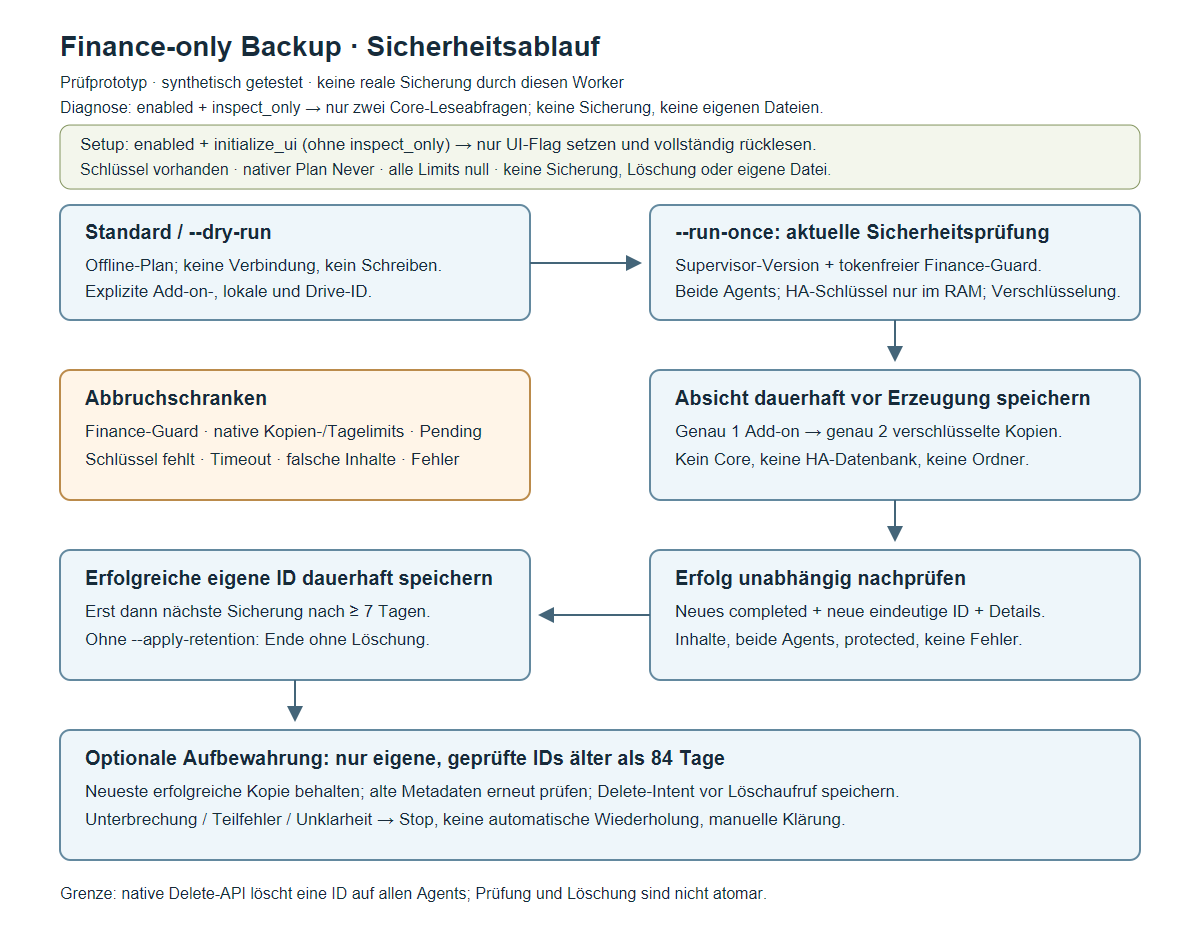
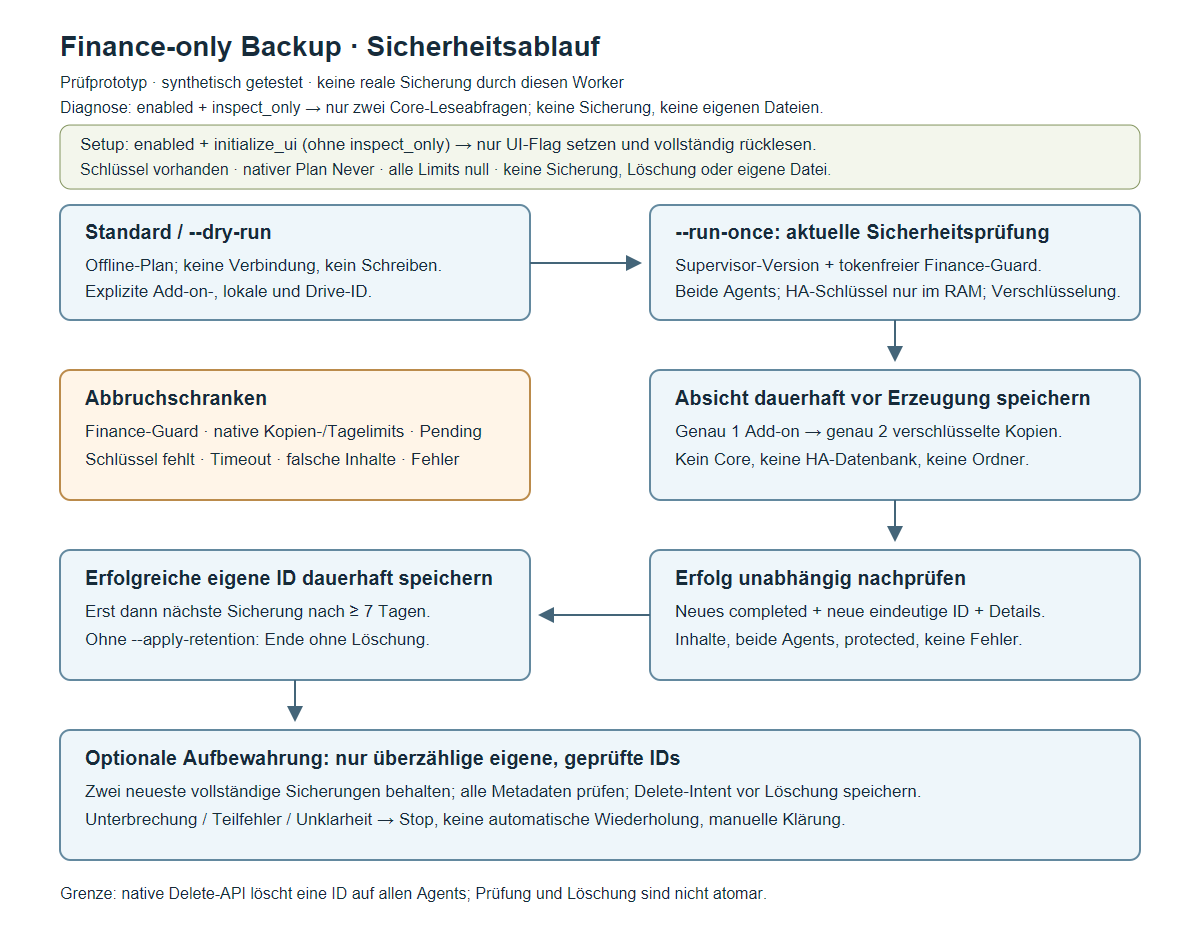
Limit owned Finance backups to two verified recovery points

Changed region(s): [[0.0617, 0.787, 0.7708, 0.8778]]

diff --git a/finance_backup_controller/test_controller.py b/finance_backup_controller/test_controller.py
@@ -174,7 +174,7 @@ class Tests(unittest.TestCase):
             self.assertFalse(self.state.data["owned"])
             self.assertFalse(self.deletes())
 
-    def test_retention_only_owned_strictly_older_84days_keeps_latest(self):
+    def test_retention_keeps_two_newest_owned_and_foreign(self):
         old = backup("old", "finance-only-old", NOW - timedelta(days=85))
         edge = backup("edge", "finance-only-edge", NOW - timedelta(days=84))
         latest = backup("latest", "finance-only-latest", NOW - timedelta(days=83))
@@ -184,30 +184,64 @@ class Tests(unittest.TestCase):
         def check_intent():
             self.assertEqual(json.loads(self.path.read_text())["delete_intent"]["backup_id"], "old")
         self.api.on_delete = check_intent
-        c.prune(self.api, self.state, NOW)
+        c.prune(self.api, self.state)
         self.assertEqual(self.deletes(), [{"type": "backup/delete", "backup_id": "old"}])
         self.assertEqual({b["backup_id"] for b in self.api.backups}, {"edge", "latest", "foreign"})
+
+    def test_retention_rotates_only_after_new_verified_backup(self):
+        old = backup("old", "finance-only-old", NOW - timedelta(days=15))
+        previous = backup("previous", "finance-only-previous", NOW - timedelta(days=8))
+        self.api.backups = [old, previous]
+        self.state.data["owned"] = [owned(old), owned(previous)]
+        self.assertEqual(c.run(self.api, self.state, NOW, True), "completed")
+        self.assertEqual({b["backup_id"] for b in self.api.backups}, {"previous", "new"})
+        self.assertEqual({b["backup_id"] for b in self.state.data["owned"]}, {"previous", "new"})
+
+    def test_retention_requires_both_recovery_points_and_valid_count(self):
+        old = backup("old", "finance-only-old", NOW - timedelta(days=15))
+        previous = backup("previous", "finance-only-previous", NOW - timedelta(days=8))
+        latest = backup("latest", "finance-only-latest", NOW)
+        self.state.data["owned"] = [owned(old), owned(previous), owned(latest)]
+        self.api.backups = [old, previous, latest]
+        for count in (False, 1, 0, 101, "2"):
+            with self.subTest(count=count), self.assertRaises(c.SafetyStop):
+                c.prune(self.api, self.state, count)
+        self.api.backups.remove(previous)
+        with self.assertRaises(c.SafetyStop):
+            c.prune(self.api, self.state)
+        self.assertFalse(self.deletes())
+
+    def test_configured_count_three_keeps_three_complete_backups(self):
+        records = [backup(str(i), "finance-only-" + str(i), NOW - timedelta(days=4-i))
+                   for i in range(4)]
+        self.api.backups = records.copy()
+        self.state.data["owned"] = [owned(b) for b in records]
+        c.prune(self.api, self.state, 3)
+        self.assertEqual({b["backup_id"] for b in self.api.backups}, {"1", "2", "3"})
+        self.assertEqual([p["backup_id"] for p in self.deletes()], ["0"])
 
     def test_stale_foreign_or_extra_agent_metadata_blocks_deletion(self):
         for field in ("name", "date", "addon", "extraagent", "missing"):
             old = backup("old", "finance-only-old", NOW - timedelta(days=90))
+            middle = backup("middle", "finance-only-middle", NOW - timedelta(days=1))
             latest = backup("latest", "finance-only-latest", NOW)
-            self.state.data["owned"] = [owned(old), owned(latest)]
+            self.state.data["owned"] = [owned(old), owned(middle), owned(latest)]
             if field == "name": old["name"] = "foreign"
             if field == "date": old["date"] = NOW.isoformat()
             if field == "addon": old["addons"] = [{"slug": "other"}]
             if field == "extraagent": old["agents"]["third"] = {"protected": True, "size": 5}
-            self.api.backups = [latest] if field == "missing" else [old, latest]
-            with self.subTest(field=field), self.assertRaises(c.SafetyStop): c.prune(self.api, self.state, NOW)
+            self.api.backups = [middle, latest] if field == "missing" else [old, middle, latest]
+            with self.subTest(field=field), self.assertRaises(c.SafetyStop): c.prune(self.api, self.state)
             self.assertFalse(self.deletes())
 
     def test_delete_interruption_journals_and_blocks_future_mutation(self):
         old = backup("old", "finance-only-old", NOW - timedelta(days=90))
+        middle = backup("middle", "finance-only-middle", NOW - timedelta(days=1))
         latest = backup("latest", "finance-only-latest", NOW)
-        self.api.backups = [old, latest]
-        self.state.data["owned"] = [owned(old), owned(latest)]
+        self.api.backups = [old, middle, latest]
+        self.state.data["owned"] = [owned(old), owned(middle), owned(latest)]
         self.api.fail_at = "backup/delete"
-        with self.assertRaises(ConnectionError): c.prune(self.api, self.state, NOW)
+        with self.assertRaises(ConnectionError): c.prune(self.api, self.state)
         reloaded = c.State(self.path, CFG)
         self.assertEqual(reloaded.data["delete_intent"], owned(old))
         with self.assertRaises(c.SafetyStop): reloaded.require_clear()
@@ -250,7 +284,7 @@ class Tests(unittest.TestCase):
         self.assertEqual(c.run(self.api, self.state, NOW, True), "not_due")
         self.assertFalse(any(p["type"] == "backup/generate" for p in self.api.calls))
         self.api.backups = [b]
-        c.prune(self.api, self.state, NOW + timedelta(days=300))
+        c.prune(self.api, self.state)
         self.assertFalse(self.deletes())
 
     def test_explicit_run_now_bypasses_only_interval_and_keeps_prior_ownership(self):
@@ -269,8 +303,8 @@ class Tests(unittest.TestCase):
     def test_approved_versions_require_exact_supervisor_and_guard_agreement(self):
         class Response(io.BytesIO):
             def getcode(self): return 200
-        for installed in ("0.2.69", "0.2.70"):
-            for reported in ("0.2.69", "0.2.70", "0.2.71"):
+        for installed in ("0.2.69", "0.2.70", "0.2.71", "0.2.72", "0.2.73"):
+            for reported in ("0.2.69", "0.2.70", "0.2.71", "0.2.72", "0.2.73"):
                 self.api.finance_info["data"]["version"] = installed
                 self.api.backup_guard["addon_version"] = reported
                 count = []
@@ -279,10 +313,11 @@ class Tests(unittest.TestCase):
                     payload = self.api.finance_info if len(count) == 1 else self.api.backup_guard
                     return Response(json.dumps(payload).encode())
                 with self.subTest(installed=installed, reported=reported):
-                    if installed == reported: c.supervisor_guard(CFG, "SYNTHETIC_TOKEN", opener)
+                    if installed == reported and installed != "0.2.73":
+                        c.supervisor_guard(CFG, "SYNTHETIC_TOKEN", opener)
                     else:
                         with self.assertRaises(c.SafetyStop): c.supervisor_guard(CFG, "SYNTHETIC_TOKEN", opener)
-                self.assertEqual(len(count), 2)
+                self.assertEqual(len(count), 1 if installed == "0.2.73" else 2)
 
     def test_lock_and_invalid_config_fail_closed(self):
         with c.lock(self.path):
@@ -297,19 +332,21 @@ class Tests(unittest.TestCase):
         self.assertFalse(any(p["type"] == "backup/generate" for p in self.api.calls))
         self.state.data["pending"] = None
         old = backup("old", "finance-only-old", NOW - timedelta(days=90))
+        middle = backup("middle", "finance-only-middle", NOW - timedelta(days=1))
         latest = backup("latest", "finance-only-latest", NOW)
-        self.api.backups = [old, latest]
-        self.state.data["owned"] = [owned(old), owned(latest)]
+        self.api.backups = [old, middle, latest]
+        self.state.data["owned"] = [owned(old), owned(middle), owned(latest)]
         with patch.object(self.state, "save", side_effect=OSError("synthetic disk full")):
-            with self.assertRaises(OSError): c.prune(self.api, self.state, NOW)
+            with self.assertRaises(OSError): c.prune(self.api, self.state)
         self.assertFalse(self.deletes())
 
     def test_latest_backup_missing_blocks_all_deletion(self):
         old = backup("old", "finance-only-old", NOW - timedelta(days=90))
+        middle = backup("middle", "finance-only-middle", NOW - timedelta(days=1))
         latest = backup("latest", "finance-only-latest", NOW)
-        self.api.backups = [old]
-        self.state.data["owned"] = [owned(old), owned(latest)]
-        with self.assertRaises(c.SafetyStop): c.prune(self.api, self.state, NOW)
+        self.api.backups = [old, middle]
+        self.state.data["owned"] = [owned(old), owned(middle), owned(latest)]
+        with self.assertRaises(c.SafetyStop): c.prune(self.api, self.state)
         self.assertFalse(self.deletes())
 
     def test_unavailable_agent_and_inventory_error_block_generation(self):
@@ -415,7 +452,7 @@ class Tests(unittest.TestCase):
                 loaded = c.State(self.path, CFG)
                 with self.subTest(field=field, value=value):
                     with self.assertRaises(c.SafetyStop): c.run(self.api, loaded, NOW, True)
-                    with self.assertRaises(c.SafetyStop): c.prune(self.api, loaded, NOW)
+                    with self.assertRaises(c.SafetyStop): c.prune(self.api, loaded)
                 self.assertFalse(self.api.calls)
 
     def test_temp_created_exclusive_private_and_failed_write_preserves_old_state(self):

diff --git a/finance_backup_controller/controller.py b/finance_backup_controller/controller.py
@@ -23,7 +23,7 @@ class SafetyStop(Exception):
     """Safe, fixed diagnostic text only."""
 
 
-APPROVED_FINANCE_VERSIONS = frozenset({"0.2.69", "0.2.70"})
+APPROVED_FINANCE_VERSIONS = frozenset({"0.2.69", "0.2.70", "0.2.71", "0.2.72"})
 
 
 def utc(value):
@@ -430,8 +430,10 @@ def inventory(api):
     return result["backups"]
 
 
-def run(api, state, now, apply_retention=False, *, run_now=False):
+def run(api, state, now, apply_retention=False, *, run_now=False, retained_backups=2):
     state.require_clear()
+    if type(retained_backups) is not int or not 2 <= retained_backups <= 100:
+        raise SafetyStop("Retained backup count must be an integer from 2 to 100")
     config = state.config
     # Fresh installed version + actual runtime options, not a one-time approval.
     # Must precede pending state and every generate/delete operation in this run.
@@ -480,26 +482,25 @@ def run(api, state, now, apply_retention=False, *, run_now=False):
     state.data["pending"] = None
     state.save()
     if apply_retention:
-        prune(api, state, now)
+        prune(api, state, retained_backups)
     return "completed"
 
 
-def prune(api, state, now):
+def prune(api, state, retained_backups=2):
     state.require_clear()
+    if type(retained_backups) is not int or not 2 <= retained_backups <= 100:
+        raise SafetyStop("Retained backup count must be an integer from 2 to 100")
     owned = state.data["owned"]
-    if not owned:
+    if len(owned) <= retained_backups:
         return
-    latest = max(owned, key=lambda o: utc(o["created_utc"]))
-    # Verify retained recovery point before deleting any older owned backup.
-    latest_details = api.command({"type": "backup/details", "backup_id": latest["backup_id"]})
-    if latest_details["agent_errors"] or not matches(latest_details["backup"], latest, state.config):
-        raise SafetyStop("Latest successful backup is not currently verified")
-    for old in list(owned):
-        if old == latest or now - utc(old["created_utc"]) <= timedelta(days=84):
-            continue
-        details = api.command({"type": "backup/details", "backup_id": old["backup_id"]})
-        if details["agent_errors"] or not matches(details["backup"], old, state.config):
-            raise SafetyStop("Old backup changed or unavailable; no deletion")
+    ordered = sorted(owned, key=lambda o: (utc(o["created_utc"]), o["backup_id"]), reverse=True)
+    # Verify all retained recovery points and deletion candidates before the
+    # first mutation. Each point must still have both encrypted physical copies.
+    for record in ordered:
+        details = api.command({"type": "backup/details", "backup_id": record["backup_id"]})
+        if details["agent_errors"] or not matches(details["backup"], record, state.config):
+            raise SafetyStop("Owned backup changed or unavailable; no deletion")
+    for old in ordered[retained_backups:]:
         api.verify_addon(state.config)
         state.data["delete_intent"] = dict(old)
         state.save()  # Keep on interrupted/partial deletion: no automatic retry.
@@ -521,14 +522,17 @@ def main(argv=None):
     parser.add_argument("--run-once", action="store_true")
     parser.add_argument("--dry-run", action="store_true")
     parser.add_argument("--apply-retention", action="store_true")
+    parser.add_argument("--retained-backups", type=int, default=2)
     parser.add_argument("--run-now", action="store_true")
     args = parser.parse_args(argv)
     try:
         config = json.loads(args.config.read_text(encoding="utf-8"))
         config_validate(config)
+        if not 2 <= args.retained_backups <= 100:
+            raise SafetyStop("Retained backup count must be from 2 to 100")
         if not args.run_once or args.dry_run:
             print(json.dumps({"mode": "offline-plan", "generate": generation(config, "finance-only-<random>"),
-                              "retention_days": 84, "retention_enabled": False}))
+                              "retained_backups": args.retained_backups, "retention_enabled": False}))
             return 0
         token = os.environ.get("SUPERVISOR_TOKEN")
         if not token:
@@ -544,7 +548,8 @@ def main(argv=None):
                 api = HA(socket)
                 api.authenticate(token)
                 token = None
-                print(run(api, state, datetime.now(timezone.utc), args.apply_retention, run_now=args.run_now))
+                print(run(api, state, datetime.now(timezone.utc), args.apply_retention,
+                          run_now=args.run_now, retained_backups=args.retained_backups))
             finally:
                 socket.close()
         return 0

diff --git a/finance_backup_controller/test_scheduler.py b/finance_backup_controller/test_scheduler.py
@@ -252,6 +252,7 @@ class Tests(unittest.TestCase):
         self.assertIs(OPTIONS["enabled"], False)
         self.assertIs(OPTIONS["inspect_only"], False)
         self.assertIs(OPTIONS["apply_retention"], False)
+        self.assertEqual(OPTIONS["retained_backups"], 2)
         for forbidden in ("ports", "map", "host_network", "docker_api", "privileged", "devices"):
             self.assertNotIn(forbidden, MANIFEST)
         dockerfile = (HERE / "Dockerfile").read_text()
@@ -259,6 +260,27 @@ class Tests(unittest.TestCase):
         self.assertNotIn("pip", dockerfile)
         for image in json.loads((HERE / "build.json").read_text())["build_from"].values():
             self.assertTrue(image.startswith("ghcr.io/home-assistant/"))
+
+    def test_retention_option_is_bounded_and_passed_only_when_enabled(self):
+        legacy = {key: value for key, value in OPTIONS.items() if key != "retained_backups"}
+        self.assertEqual(scheduler.options_validate(legacy), CONFIG)
+        for value in (False, 1, 0, 101, "2"):
+            with self.subTest(value=value), self.assertRaises(controller.SafetyStop):
+                scheduler.options_validate(OPTIONS | {"retained_backups": value})
+        self.enable(retention=True)
+        calls = []
+        def invoke(args):
+            calls.append(args)
+            state = controller.State(self.state_path, CONFIG)
+            state.data["owned"].append({"backup_id": "new", "name": "finance-only-new",
+                                        "created_utc": NOW.isoformat()})
+            state.save()
+            return 0
+        self.options_path.write_text(json.dumps(OPTIONS | {"enabled": True, "apply_retention": True,
+                                                    "retained_backups": 3, "run_once_now": True}))
+        with redirect_stdout(io.StringIO()):
+            self.assertEqual(scheduler.serve(self.data, clock=lambda: NOW, invoke=invoke), 0)
+        self.assertEqual(calls[0][-3:-1], ["--retained-backups", "3"])
 
     def test_falsy_non_null_intents_block_scheduler_without_execution(self):
         self.enable()

diff --git a/finance_backup_controller/scheduler.py b/finance_backup_controller/scheduler.py
@@ -21,11 +21,14 @@ class StopRequested(BaseException):
 
 
 def options_validate(options):
-    keys = {"enabled", "inspect_only", "initialize_ui", "reconcile_pending", "run_once_now", "apply_retention", "addon_slug", "local_agent_id", "drive_agent_id"}
-    if not isinstance(options, dict) or set(options) != keys:
+    keys = {"enabled", "inspect_only", "initialize_ui", "reconcile_pending", "run_once_now", "apply_retention", "retained_backups", "addon_slug", "local_agent_id", "drive_agent_id"}
+    if not isinstance(options, dict) or set(options) not in (keys, keys - {"retained_backups"}):
         raise controller.SafetyStop("Invalid app option keys")
     if any(type(options[flag]) is not bool for flag in ("enabled", "inspect_only", "initialize_ui", "reconcile_pending", "run_once_now", "apply_retention")):
         raise controller.SafetyStop("App flags must be boolean")
+    retained_backups = options.get("retained_backups", 2)
+    if type(retained_backups) is not int or not 2 <= retained_backups <= 100:
+        raise controller.SafetyStop("Retained backup count must be from 2 to 100")
     if sum(options[flag] for flag in ("inspect_only", "initialize_ui", "reconcile_pending", "run_once_now")) > 1:
         raise controller.SafetyStop("Setup modes must not be combined")
     if options["inspect_only"] or options["initialize_ui"]:
@@ -119,7 +122,8 @@ def serve(data_dir=Path("/data"), *, clock=None, sleep=None, invoke=None, inspec
         config_path.write_text(json.dumps(config, sort_keys=True), encoding="utf-8")
         args = ["--config", str(config_path), "--state", str(state_path), "--run-once"]
         if options["apply_retention"]:
-            args.append("--apply-retention")
+            args.extend(["--apply-retention", "--retained-backups",
+                         str(options.get("retained_backups", 2))])
         if options["run_once_now"]:
             args.append("--run-now")
         if invoke(args) != 0:

diff --git a/finance_backup_controller/README.md b/finance_backup_controller/README.md
@@ -1,8 +1,14 @@
 # Finance Backup Controller — kanonisches Prüf- und Veröffentlichungspaket
 
-Dieses eigenständige HA-App-Paket enthält genau **eine** `controller.py`. Die synthetischen Tests prüfen diese Fassung und das explizite Recovery-Modul direkt. Die älteren Root-/`addon/`-Fassungen außerhalb dieses Ordners gehören nicht zu diesem Veröffentlichungspaket. Version 0.1.1 korrigiert die Wartebehandlung und ergänzt einen ausdrücklich ausgelösten Abgleich bereits gestarteter Sicherungen. Eine synthetische Prüfung ersetzt keine praktische Transfer- oder Wiederherstellungsabnahme.
+Dieses eigenständige HA-App-Paket enthält genau **eine** `controller.py`. Die synthetischen Tests prüfen diese Fassung und das explizite Recovery-Modul direkt. Die älteren Root-/`addon/`-Fassungen außerhalb dieses Ordners gehören nicht zu diesem Veröffentlichungspaket. Version 0.1.2 ergänzt die Aufbewahrung von mindestens zwei eigenen vollständigen Sicherungen und die Freigabe für Finance 0.2.71 und 0.2.72. Eine synthetische Prüfung ersetzt keine praktische Transfer- oder Wiederherstellungsabnahme.
 
 Der prüfbare Ablauf ist in [flow.svg](flow.svg) und [flow.png](flow.png) dargestellt.
+
+## Version 0.1.2: Zwei vollständige eigene Sicherungen
+
+`retained_backups` ist standardmäßig `2` und lässt ganze Zahlen von 2 bis 100 zu. Eine vorhandene Optionsdatei der Version 0.1.1 ohne dieses Feld verwendet ebenfalls den Wert 2. Der Controller rotiert nur nach einer neuen, vollständig geprüften und dauerhaft gespeicherten Finance-Sicherung und nur mit `apply_retention: true`. Er prüft vor der ersten Löschung alle eigenen Sicherungen erneut auf ID, Namen, Zeit, Finance-Inhalt und zwei vorhandene, verschlüsselte physische Kopien. Die jüngsten `retained_backups` bleiben erhalten; ältere eigene IDs werden einzeln mit dauerhaftem Lösch-Intent entfernt. Fremde Sicherungen werden nicht gelöscht. Fehlende oder veränderte Metadaten stoppen vor der ersten Löschung; ein unklarer Löschaufruf blockiert jeden Folgelauf bis zur manuellen Klärung.
+
+Finance 0.2.71 ist anhand des öffentlichen Release-Quellstands freigegeben: `config.yaml` meldet 0.2.71 und die vorgesehenen `backup_exclude`-Muster, `backup_guard.py` bindet den tokenfreien Guard an 0.2.71, und die Git-Blob-Hashes beider Dateien stimmen mit dem `build-manifest.json` überein. Die frische Supervisor-Version und die Guard-Antwort müssen weiterhin exakt übereinstimmen. Die tatsächliche installierte Image-Version, Archivinhalt und Wiederherstellbarkeit bleiben vor einem produktiven Lauf gesondert zu prüfen. Finance 0.2.72 ist im separat geprüften Finance-Quellstand freigegeben: Gegenüber 0.2.71 ändern sich im nativen `config.yaml` nur die Version und in `backup_guard.py` nur die freigegebene Versionskonstante; `run.sh`, `bootstrap.py` und `vault_selftest.py` sind unverändert. Die nativen Backup-Payload- und Guard-Tests sind grün. 0.2.73 bleibt gesperrt.
 
 ## Version 0.1.1: Warten und kontrollierter Abgleich
 
@@ -14,11 +20,11 @@ Er verlangt einen vorhandenen streng gültigen Pending-Eintrag mit zufälligem e
 
 Nur nach erfolgreichem Abschluss einschließlich Verbindungsabbau erscheint `Pending backup reconciled; no backup created or deleted`. Ein Dateisystemfehler nach dem atomaren Austausch kann bereits einen neuen lokalen Stand hinterlassen; dann nicht automatisch zurückschreiben oder wiederholen, sondern prüfen. Anschließend den Recovery-Schalter wieder auf `false` setzen. Ein separat gestarteter Normalmodus berücksichtigt die übernommene Sicherung für die unveränderte Sieben-Tage-Frist.
 
-Der neue Schalter ist standardmäßig `false`; Rechte, Quell- und Zielvorgaben sowie der 84-Tage-Plan bleiben unverändert.
+Der neue Schalter ist standardmäßig `false`; Rechte, Quell- und Zielvorgaben bleiben unverändert.
 
 `run_once_now: true` ist eine weitere ausdrücklich gewählte einmalige Betreiberhandlung, etwa für die Prüfung eines geänderten Sicherungsumfangs. Sie umgeht ausschließlich die Sieben-Tage-Wartefrist und erzeugt genau eine vollständig geprüfte neue Sicherung; vorhandene Eigentumsnachweise bleiben erhalten. Unklare Vorgänge, Locks, Bank-/Schlüsselausschlüsse, Verschlüsselungs- und Inhaltsprüfungen werden nicht umgangen. Der Modus kann nicht mit Diagnose, UI-Initialisierung oder Recovery kombiniert werden. Er beendet sich anschließend und aktiviert keinen Wochenplan. Vor dem getrennten Start des normalen Wochenbetriebs den Schalter wieder auf `false` setzen. CLI-Entsprechung: `--run-once --run-now`; ohne `--run-once` bleibt die CLI offline.
 
-Freigegeben sind ausschließlich Finance 0.2.69 und 0.2.70. Die vom geheimnisfreien Guard gemeldete Version muss exakt mit der frischen Supervisor-Angabe übereinstimmen. 0.2.70 lässt zusätzlich bereits erzeugte lokale Sicherungsarchive und Datenbankkopien aus künftigen äußeren Sicherungen heraus; diese Dateien werden nicht gelöscht.
+Freigegeben sind ausschließlich Finance 0.2.69, 0.2.70, 0.2.71 und 0.2.72. Die vom geheimnisfreien Guard gemeldete Version muss exakt mit der frischen Supervisor-Angabe übereinstimmen. 0.2.70 lässt zusätzlich bereits erzeugte lokale Sicherungsarchive und Datenbankkopien aus künftigen äußeren Sicherungen heraus; diese Dateien werden nicht gelöscht.
 
 ## Rechte und Vorgaben
 
@@ -30,7 +36,7 @@ Offizielle Basisbilder: `ghcr.io/home-assistant/{arch}-base:3.24-2026.08.0` für
 
 ## Sicherheitsprüfung und Inhalt
 
-Vor jeder Sicherung wird über die feste interne GET-Route `http://supervisor/addons/{addon_slug}/info` ausschließlich eine der freigegebenen Versionen **0.2.69 oder 0.2.70** und der exakt erwartete Hostname (`addon_slug.replace('_', '-')`) geprüft. Anschließend folgt ein **tokenfreier** GET an genau diesen belegten Hostnamen auf Port 8785, Route `/health/backup-guard`. Nur die exakte Struktur `{"schema_version":1,"backup_safe":true,"addon_version":"0.2.69"}` ist zulässig; bei installiertem 0.2.70 muss die Antwort stattdessen exakt `addon_version: "0.2.70"` melden. Die Supervisor-Bearer-Anmeldung wird niemals an Finance weitergegeben. Finance liest dafür die tatsächliche Optionsdatei bei jeder Anfrage neu und bestätigt nur ein ausdrücklich vorhandenes leeres `access_token`; fehlende, abweichende oder unlesbare Werte ergeben lediglich einen negativen Status ohne Details. Die Version stammt aus dem im Finance-Bild eingebundenen Buildmanifest. Die Freigabe ist an die separat geprüften Release-Inhalte gebunden; andere Versionsnummern bleiben gesperrt.
+Vor jeder Sicherung wird über die feste interne GET-Route `http://supervisor/addons/{addon_slug}/info` ausschließlich eine der freigegebenen Versionen **0.2.69, 0.2.70, 0.2.71 oder 0.2.72** und der exakt erwartete Hostname (`addon_slug.replace('_', '-')`) geprüft. Anschließend folgt ein **tokenfreier** GET an genau diesen belegten Hostnamen auf Port 8785, Route `/health/backup-guard`. Nur die exakte Struktur mit `schema_version: 1`, `backup_safe: true` und `addon_version` gleich der frischen Supervisor-Version (0.2.69, 0.2.70, 0.2.71 oder 0.2.72) ist zulässig. Die Supervisor-Bearer-Anmeldung wird niemals an Finance weitergegeben. Finance liest dafür die tatsächliche Optionsdatei bei jeder Anfrage neu und bestätigt nur ein ausdrücklich vorhandenes leeres `access_token`; fehlende, abweichende oder unlesbare Werte ergeben lediglich einen negativen Status ohne Details. Die Version stammt aus dem im Finance-Bild eingebundenen Buildmanifest. Die Freigabe ist an die separat geprüften Release-Inhalte gebunden; andere Versionsnummern bleiben gesperrt.
 
 Ein anderer oder unvollständiger Stand stoppt vor Backup-Mutationen. Der Slug besteht aus einem streng geprüften Pfadsegment; keine Redirects oder Umgebungs-Proxys. Antwortgröße je Abfrage höchstens 256 KiB, Socketwartezeit höchstens 20 Sekunden. Optionen, Token und rohe Fehlertexte werden niemals ausgegeben. Die Vorprüfung wird vor jedem eigenen Löschaufruf erneut durchgeführt. Das vom Info-Endpunkt nicht gelieferte `backup_exclude` wird nicht angenommen, sondern muss für die separat freigegebene Finance-Version belegt sein.
 
@@ -40,15 +46,15 @@ Die Core-WebSocket-Version muss `2026.9.4` oder `2026.10.2` sein. Die Quelle der
 
 Ein vollständig beobachtetes Abschlussereignis genügt noch nicht: Der Controller verlangt eine neue eindeutige Backup-ID zum zufälligen eigenen Namen sowie passende Detailmetadaten, beide verschlüsselte Kopien und leere Fehlerlisten. Die native Erzeugung liefert zunächst eine Job-ID, keine Backup-ID. Eine Unterbrechung hinterlässt einen blockierenden Zustand; keine automatische Wiederholung oder Verbindungserneuerung. WebSocket-Verbindungs-/Lesefrist höchstens 30 Sekunden, Gesamtfrist 30 Minuten.
 
-## Sieben Tage und 84 Tage
+## Sieben Tage und zwei Sicherungen
 
 Die Root-CLI `controller.py` enthält keinen Zeitgeber. Der App-Prozess `scheduler.py` startet bei `enabled: true` einen fälligen Einmallauf und plant anschließend sieben Tage nach der letzten dauerhaft gespeicherten erfolgreichen Sicherung in UTC. Er schläft höchstens eine Stunde je Phase und liest Optionen/Zustand danach erneut. Ein Neustart erzeugt keine Nachholserie. Mit `enabled: false` beendet sich die App ohne Verbindung und ohne eigene Schreibzugriffe.
 
 Der gesonderte Diagnosemodus `enabled: true` plus `inspect_only: true` authentisiert genau einmal an Core und liest ausschließlich `backup/agents/info` sowie `backup/config/info`, danach beendet er sich. Die Ausgabe enthält nur `agent_ids`, `ha_version`, `key_configured`, `native_pruning_configured` und die booleschen oder unbekannten `agent_protected`-Flags. Keine Namen, E-Mails, Schlüssel oder rohen Konfigurationen. Er verwendet weder die synthetischen Quell-/Ziel-IDs noch Zustandsdateien und schreibt keine Controller-Konfiguration. Mit `enabled: false` bleibt auch dieser Modus vollständig offline. Er darf zur Ermittlung der echten IDs dienen, die später ausschließlich über die Servermaske gesetzt werden. Ein positiver Diagnosebericht ersetzt keinen der zusätzlichen Guards des normalen Sicherungslaufs.
 
-Die **84 Tage gelten ausschließlich für den eigenen Controller-Plan**: Nur mit `apply_retention: true` werden nach einer neuen vollständig geprüften Sicherung eigene IDs älter als 84 Tage berücksichtigt. Die neueste erfolgreiche Sicherung bleibt erhalten. Es gibt keinen nativen 84-Tage-Timer.
+Die **Anzahl gilt ausschließlich für den eigenen Controller-Plan**: Nur mit `apply_retention: true` werden nach einer neuen vollständig geprüften Sicherung überzählige eigene IDs berücksichtigt. Mindestens zwei neueste vollständige Sicherungen bleiben erhalten.
 
-Alle nativen globalen und agentbezogenen `copies`- und `days`-Limits müssen `null` sein, einschließlich fremder Agents. Jeder andere Wert stoppt den Controller. Native Kopienlimits können bei Erzeugung fremde Sicherungen entfernen; HA besitzt zusätzlich einen unabhängigen Tagestimer, der auch ohne aktiven nativen Sicherungsplan fremde automatische Sicherungen löschen kann. Der Controller ändert diese Einstellungen nicht selbst. Native Limits auszuschalten bedeutet nicht unbegrenzte Controller-Aufbewahrung: Die eigene 84-Tage-Prüfung bleibt davon getrennt.
+Alle nativen globalen und agentbezogenen `copies`- und `days`-Limits müssen `null` sein, einschließlich fremder Agents. Jeder andere Wert stoppt den Controller. Native Kopienlimits können bei Erzeugung fremde Sicherungen entfernen; HA besitzt zusätzlich einen unabhängigen Tagestimer, der auch ohne aktiven nativen Sicherungsplan fremde automatische Sicherungen löschen kann. Der Controller ändert diese Einstellungen nicht selbst. Native Limits auszuschalten bedeutet nicht unbegrenzte Controller-Aufbewahrung: Die eigene Anzahlprüfung bleibt davon getrennt.
 
 Die Zustandsdatei speichert ausschließlich Konfiguration, eigene erfolgreiche IDs, Namen, Datum und offene Erzeugungs-/Löschabsichten. Nur `null` bedeutet freie Intentfelder; auch `{}`, `0`, `false` und `""` blockieren. Eine zufällige Tempdatei wird exklusiv und bereits bei Erstellung mit Modus `0600` geöffnet; Flush, `fsync` und atomarer Austausch schützen die Zustandsübergänge. Unter Linux wird zusätzlich das Verzeichnis synchronisiert. Vorhandene Tempdateien/Symlinks werden nicht wiederverwendet. Die konkrete Löschabsicht wird vor jedem Löschaufruf dauerhaft geschrieben; Teilfehler bleiben zur manuellen Prüfung erhalten. Lock-/State-Dateien dürfen bei Unsicherheit nicht einfach gelöscht oder durch einen leeren Bestand ersetzt werden.
 
@@ -69,7 +75,7 @@ python -m unittest -v
 python controller.py --config config.example.json --state synthetic-state.json --dry-run
 ```
 
-Der erste Befehl führt alle **77 synthetischen Tests** gegen die eine kanonische Controllerfassung und die expliziten Betriebsmodi aus. Für den Test der tatsächlichen Timeoutklasse muss zusätzlich die verwendete websocket-client-Abhängigkeit installiert sein; andernfalls meldet dieser einzelne Test einen Skip. Keine Verbindung, keine echten Credentials, kein Containerbuild. Der zweite zeigt ausschließlich den Offline-Plan und erzeugt keine Zustandsdatei. Die Beispielkonfiguration enthält synthetische IDs. Ein realer CLI-Lauf benötigt zusätzlich `--run-once`; Löschungen außerdem `--apply-retention`. Diese Schalter erst nach gesonderter Betriebsfreigabe verwenden.
+Der erste Befehl führt alle synthetischen Tests gegen die eine kanonische Controllerfassung und die expliziten Betriebsmodi aus. Für den Test der tatsächlichen Timeoutklasse muss zusätzlich die verwendete websocket-client-Abhängigkeit installiert sein; andernfalls meldet dieser einzelne Test einen Skip. Keine Verbindung, keine echten Credentials, kein Containerbuild. Der zweite zeigt ausschließlich den Offline-Plan und erzeugt keine Zustandsdatei. Die Beispielkonfiguration enthält synthetische IDs. Ein realer CLI-Lauf benötigt zusätzlich `--run-once`; Löschungen außerdem `--apply-retention`. Diese Schalter erst nach gesonderter Betriebsfreigabe verwenden.
 
 ## Grenzen und Review-Differenz
 
@@ -77,6 +83,6 @@ Die Tests bestätigen den lokalen Ablauf, nicht reale Core-/Supervisor-Authentis
 
 Die HA-Lösch-API löscht eine ID auf allen Agents. Deshalb müssen die aktuellen Metadaten exakt die beiden erwarteten Kopien, eigene ID, Name, Zeit und Inhalte bestätigen. Prüfung und Löschung bilden keinen atomaren API-Aufruf; parallele externe Änderungen bleiben eine Grenze. Die zusammengeführte HA-Metadatenantwort ist außerdem keine kryptografische Inhaltsprüfung jeder Kopie. Ein Fehler beendet den App-Prozess; externe automatische Neustarts dürfen diese Abbruchschranke nicht umgehen.
 
-Gegenüber dem zuletzt abgeschlossenen Claude-Review kamen der native `days`-Guard, die kanonische Paketstruktur und der zweistufige aktuelle Finance-Prüfvertrag hinzu: Default-Supervisorinfo bestätigt Version/Hostname; Finance bestätigt geheimnisfrei tatsächliche Optionssicherheit. Der Bytevergleichstest entfällt hier, weil es im Paket keine zweite Controllerquelle gibt; beide Testsuites importieren unmittelbar dieselbe Datei. Manifestrechte, sieben Tage und 84 Tage bleiben erhalten. Dieser Nachtrag benötigt vor Veröffentlichung erneut Review.
+Gegenüber dem zuletzt abgeschlossenen Claude-Review kamen der native `days`-Guard, die kanonische Paketstruktur und der zweistufige aktuelle Finance-Prüfvertrag hinzu: Default-Supervisorinfo bestätigt Version/Hostname; Finance bestätigt geheimnisfrei tatsächliche Optionssicherheit. Der Bytevergleichstest entfällt hier, weil es im Paket keine zweite Controllerquelle gibt; beide Testsuites importieren unmittelbar dieselbe Datei. Manifestrechte, sieben Tage und die Aufbewahrungszahl bleiben erhalten. Dieser Nachtrag benötigt vor Veröffentlichung erneut Review.
 
 Öffentliche Primärquellen: HA-Core [WebSocket 2026.9.4](https://github.com/home-assistant/core/blob/2026.9.4/homeassistant/components/backup/websocket.py), [Manager](https://github.com/home-assistant/core/blob/2026.9.4/homeassistant/components/backup/manager.py), [Config einschließlich Tagestimer](https://github.com/home-assistant/core/blob/2026.9.4/homeassistant/components/backup/config.py), [Models](https://github.com/home-assistant/core/blob/2026.9.4/homeassistant/components/backup/models.py), [Supervisor-Anbindung](https://github.com/home-assistant/core/blob/2026.9.4/homeassistant/components/hassio/backup.py); zusätzlich geprüft gegen [2026.10.2](https://github.com/home-assistant/core/tree/2026.10.2/homeassistant/components/backup). Container/Manifest: [offizielles SSH-Buildmanifest](https://github.com/home-assistant/addons/blob/master/ssh/build.yaml), [HA-App-Konfiguration](https://contributors.home-assistant.io/apps/reference/configuration/), [Alpine-Paket](https://pkgs.alpinelinux.org/package/v3.24/community/x86_64/py3-websocket-client). Quellenprüfung: 19.10.2026.
